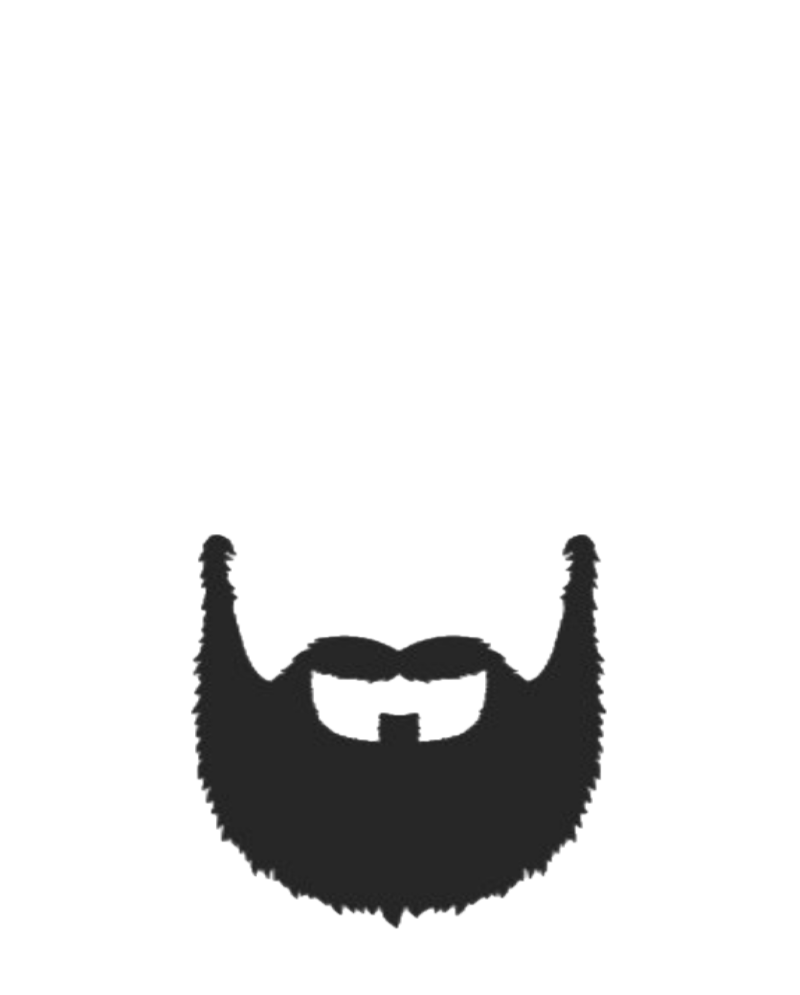
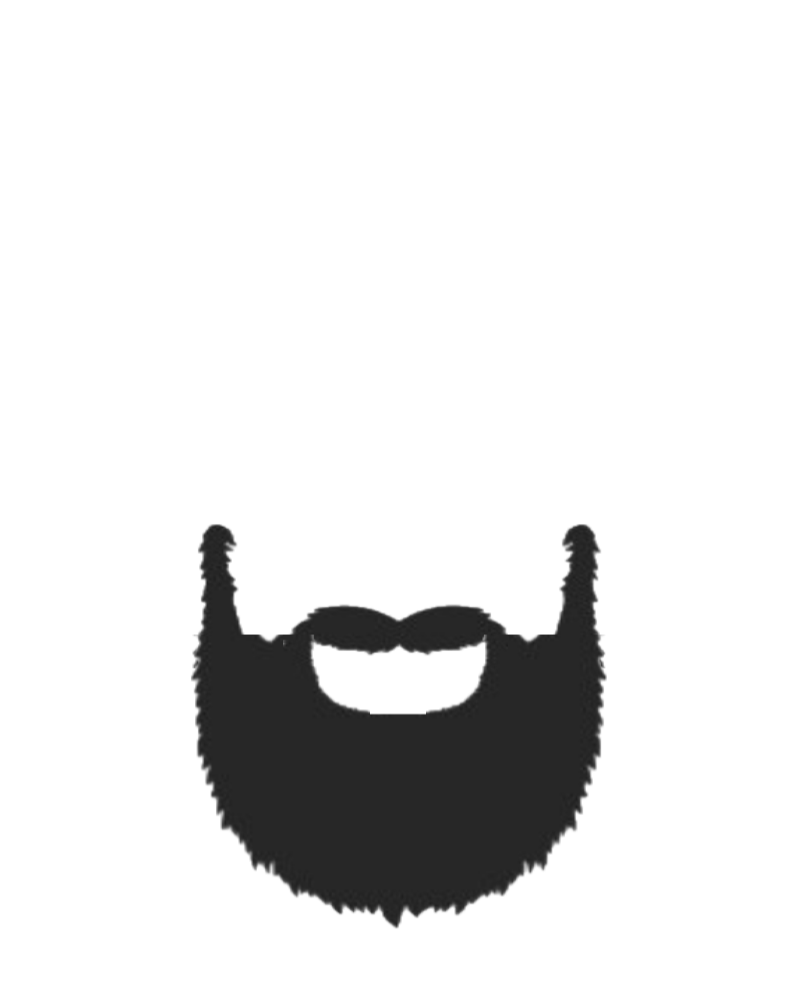
made sticker work properly and also made the name appear in the screen share ui

diff --git a/client/src/components/VideoCallComponents/ScreenShare.jsx b/client/src/components/VideoCallComponents/ScreenShare.jsx
@@ -1,5 +1,7 @@
 import React from "react";
 import { Grid, Box } from "@material-ui/core";
+import MicIcon from "@material-ui/icons/Mic";
+import MicOffIcon from "@material-ui/icons/MicOff";
 
 export default function ScreenShare({ someOneSharingScreen, videos, classes, myId, speakerToggle, video, audio, windowWidth }) {
   return (
@@ -40,6 +42,7 @@ export default function ScreenShare({ someOneSharingScreen, videos, classes, myI
                       textAlign: "center",
                       minHeight: "33vh",
                       overflow: "hidden",
+                      position: "relative",
                     }}
                   >
                     <video
@@ -54,6 +57,29 @@ export default function ScreenShare({ someOneSharingScreen, videos, classes, myI
                     {!((videoStream.video && videoStream.userId !== myId) || (videoStream.userId === myId && video)) && (
                       <img src={videoStream.picurL} style={{ borderRadius: "100%", height: "auto", width: "25%", minWidth: "60px", maxWidth: "120px", display: "block" }} alt={videoStream.userName} />
                     )}
+                    <Box
+                      style={{
+                        fontSize: "1.3rem",
+                        fontFamily: "sans-serif",
+                        color: "white",
+                        textAlign: "right",
+                        paddingRight: "3%",
+                        width: "fit-content",
+                        marginLeft: "auto",
+                        padding: "1.3%",
+                        zIndex: "100",
+                        position: "absolute",
+                        bottom: "0",
+                        right: "0",
+                        backgroundColor: "rgba(0,0,0,0.5)",
+                      }}
+                    >
+                      <Box component="span" style={{ verticalAlign: "bottom" }}>
+                        {videoStream.userId === myId ? "You" : videoStream.userName}
+                      </Box>
+                      {videoStream.userId !== myId &&
+                        (videoStream.audio ? <MicIcon style={{ marginLeft: "10px", verticalAlign: "bottom" }} /> : <MicOffIcon style={{ marginLeft: "10px", verticalAlign: "bottom" }} />)}
+                    </Box>
                   </Box>
                 );
               }
@@ -80,6 +106,7 @@ export default function ScreenShare({ someOneSharingScreen, videos, classes, myI
                         textAlign: "center",
                         overflow: "hidden",
                         width: "100%%",
+                        position: "relative",
                       }}
                     >
                       <video
@@ -91,6 +118,35 @@ export default function ScreenShare({ someOneSharingScreen, videos, classes, myI
                           return videoRef;
                         }}
                       />
+                      <Box
+                        style={{
+                          fontSize: "0.5rem",
+                          fontFamily: "sans-serif",
+                          color: "white",
+                          textAlign: "right",
+                          paddingRight: "3%",
+                          width: "fit-content",
+                          marginLeft: "auto",
+                          zIndex: "100",
+                          position: "absolute",
+                          bottom: "0",
+                          right: "0",
+                          backgroundColor: "rgba(0,0,0,0.5)",
+                          height: "10vw",
+                        }}
+                      >
+                        <Box component="span" style={{ verticalAlign: "top", marginTop: "1vw" }}>
+                          {videoStream.userId === myId ? "You" : videoStream.userName}
+                        </Box>
+                        <Box component="span" style={{ verticalAlign: "middle" }}>
+                          {videoStream.userId !== myId &&
+                            (videoStream.audio ? (
+                              <MicIcon style={{ marginLeft: "10px", width: "3vw", verticalAlign: "bottom" }} />
+                            ) : (
+                              <MicOffIcon style={{ marginLeft: "10px", width: "3vw", verticalAlign: "bottom" }} />
+                            ))}
+                        </Box>
+                      </Box>
                       {!((videoStream.video && videoStream.userId !== myId) || (videoStream.userId === myId && video)) && (
                         <img
                           src={videoStream.picurL}

diff --git a/client/src/components/VideoCallComponents/IndividualVideo.jsx b/client/src/components/VideoCallComponents/IndividualVideo.jsx
@@ -16,6 +16,7 @@ export default function IndividualVideo({ key, myId, speakerToggle, videoStream,
   const img = useRef();
   const errCnt = useRef(0);
   const socket = useSocket();
+  const firstTime = useRef(true);
   useEffect(() => {
     startVideo();
     img.current = new Image();
@@ -74,7 +75,7 @@ export default function IndividualVideo({ key, myId, speakerToggle, videoStream,
               .drawImage(
                 img.current,
                 jawCoods[4].x - (jawCoods[16].x - jawCoods[0].x) * 0.43,
-                jawCoods[0].y - (jawCoods[8].y - headCoods[3].y) * 0.9,
+                jawCoods[0].y - (jawCoods[8].y - headCoods[3].y) * 0.91,
                 (jawCoods[16].x - jawCoods[0].x) * 1.7,
                 (jawCoods[8].y - headCoods[3].y) * 1.8
               );
@@ -104,6 +105,12 @@ export default function IndividualVideo({ key, myId, speakerToggle, videoStream,
         videoRefs.current[myId].canvasRef.getContext("2d").clearRect(0, 0, videoRefs.current[myId].canvasRef.width, videoRefs.current[myId].canvasRef.height);
       }, 2600);
     };
+    if (firstTime.current) {
+      startInterval.current();
+      setTimeout(() => {
+        stopInterval.current();
+      }, 1000);
+    }
   }
 
   const currMaxWidth = size === 1 ? useAbleMaxWidths[0] : size === 2 ? useAbleMaxWidths[1] : useAbleMaxWidths[2];
@@ -148,7 +155,7 @@ export default function IndividualVideo({ key, myId, speakerToggle, videoStream,
         }}
         style={
           (videoStream.video && videoStream.userId !== myId) || (videoStream.userId === myId && video)
-            ? { width: currMaxWidth, height: size !== 4 ? "100%" : "128%", position: "absolute", WebkitTransform: "scaleX(-1)", transform: "scaleX(-1)" }
+            ? { width: currMaxWidth, position: "absolute", WebkitTransform: "scaleX(-1)", transform: "scaleX(-1)" }
             : { display: "none" }
         }
       ></canvas>

diff --git a/client/src/utils/ProtectedRoute.js b/client/src/utils/ProtectedRoute.js
@@ -24,7 +24,15 @@ export default function ProtectedRoute({ component: Component, ...rest }) {
 
   if (!verifiedFromServer)
     return (
-      <div style={{ position: "absolute", top: "45vh", left: "44vw", textAlign: "center" }}>
+      <div
+        style={{
+          position: "absolute",
+          top: "50%",
+          left: "50%",
+          transform: "translate(-50%, -50%)",
+          textAlign: "center",
+        }}
+      >
         <Loader
           type="Puff"
           color="#00BFFF"

diff --git a/README.md b/README.md
@@ -73,7 +73,7 @@ npm run dev
    *Google
    *Facebook
    \*Github
-4. Once a session is created it persists for the entire browsing session so no hassle of having to login again and again !!
+4. Once a session is created it persists for the entire browsing session so no hassle of having to login again and again!
 
 ### 5. Fun Face Masks
 
